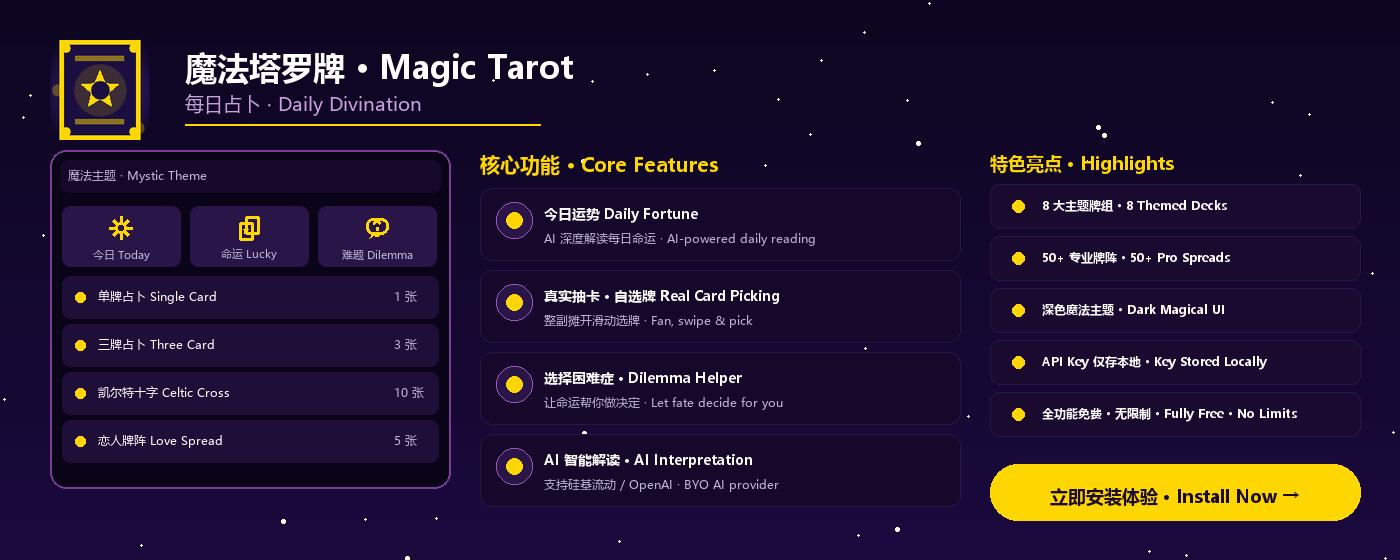
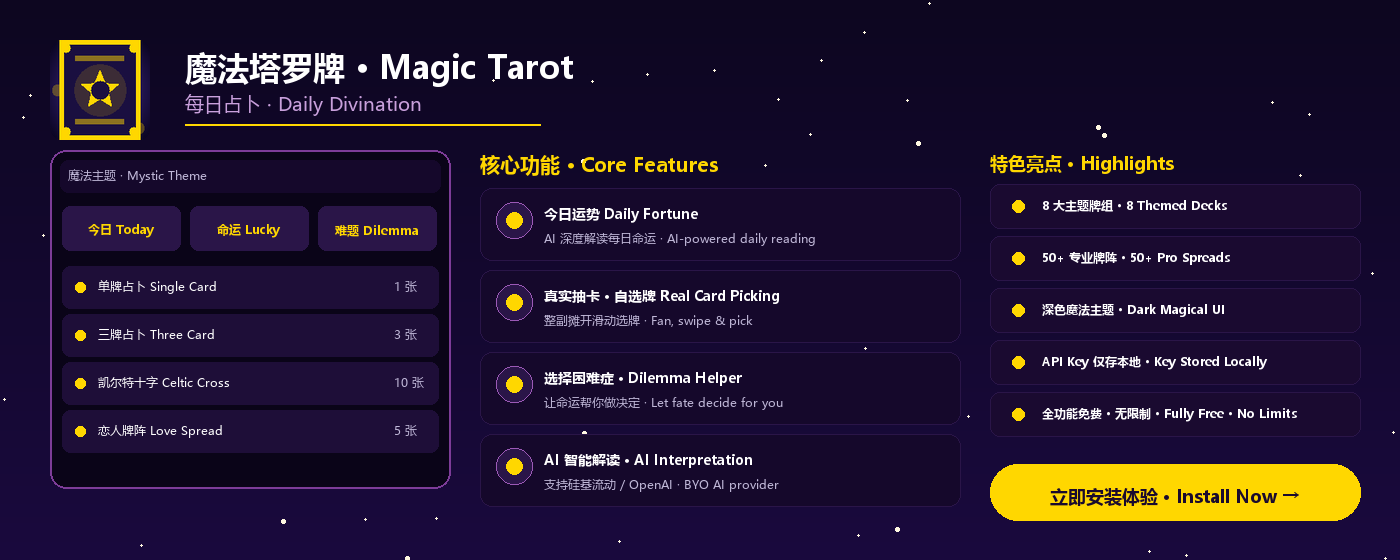
promo 工具卡去图标改为纯文字居中卡片
按用户反馈移除意向不明的太阳/塔罗牌/气泡手绘图标，工具卡改为金色文字居中的纯文字卡片（高 44px），下方牌阵列表同步上移；删除无引用的图标绘制函数，重生成两张 promo。

Changed region(s): [[0.0307, 0.3946, 0.3379, 0.85]]

diff --git a/scripts/generate-store-promo.py b/scripts/generate-store-promo.py
@@ -122,55 +122,6 @@ def _shade(hex_color, factor):
 #  ICON DRAWING FUNCTIONS
 # ════════════════════════════════════════
 
-def _draw_star(draw, cx, cy, outer_r, fill_color, points=5):
-    inner_r = outer_r * 0.4
-    pts = []
-    for i in range(points * 2):
-        angle = math.pi / 2 + i * math.pi / points
-        r = outer_r if i % 2 == 0 else inner_r
-        px = cx + r * math.cos(angle)
-        py = cy - r * math.sin(angle)
-        pts.append((px, py))
-    draw.polygon(pts, fill=fill_color)
-
-def _draw_sun(draw, cx, cy, diameter, fill_color):
-    """Unified line-style sun: ring + 8 equal rays. diameter = visual box size."""
-    r = diameter / 2.0
-    cr = r * 0.46           # core radius
-    lr = r * 0.92           # ray outer reach
-    lw = max(2, int(diameter * 0.14))
-    draw.ellipse([cx - cr, cy - cr, cx + cr, cy + cr], outline=fill_color, width=lw)
-    for i in range(8):
-        angle = i * math.pi / 4
-        x1 = cx + cr * 1.15 * math.cos(angle)
-        y1 = cy - cr * 1.15 * math.sin(angle)
-        x2 = cx + lr * math.cos(angle)
-        y2 = cy - lr * math.sin(angle)
-        draw.line([(x1, y1), (x2, y2)], fill=fill_color, width=lw)
-
-def _draw_think_bubble(draw, cx, cy, diameter, fill_color):
-    """Unified line-style speech bubble + question mark. diameter = visual box size."""
-    r = diameter / 2.0
-    lw = max(2, int(diameter * 0.13))
-    bw, bh = diameter * 0.88, diameter * 0.68
-    bx, by = cx - bw / 2, cy - bh / 2 - diameter * 0.08
-    # rounded-rect bubble (outline only)
-    draw.rounded_rectangle([bx, by, bx + bw, by + bh], radius=bh * 0.45,
-                           outline=fill_color, width=lw)
-    # tail
-    tw = diameter * 0.16
-    tx = cx - tw
-    draw.polygon([(tx, by + bh - 1),
-                  (tx - tw, by + bh + diameter * 0.18),
-                  (tx + tw, by + bh - 1)], fill=fill_color)
-    # question mark (centered in bubble)
-    qy = by + bh * 0.5
-    draw.arc([cx - bw * 0.2, qy - bh * 0.32, cx + bw * 0.2, qy + bh * 0.32],
-             200, 340, fill=fill_color, width=lw)
-    draw.line([(cx, qy + bh * 0.10), (cx, qy + bh * 0.30)], fill=fill_color, width=lw)
-    draw.ellipse([cx - lw * 0.7, qy + bh * 0.40, cx + lw * 0.7, qy + bh * 0.40 + lw * 1.4],
-                 fill=fill_color)
-
 def _draw_sparkle(draw, cx, cy, size, fill_color):
     pts = []
     for i in range(8):
@@ -209,24 +160,6 @@ def _draw_gamepad(draw, cx, cy, size, fill_color):
     for dx, dy in [(br, 0), (-br, 0), (0, br), (0, -br)]:
         draw.ellipse([cx + half // 3 + dx - br, cy + dy - br,
                       cx + half // 3 + dx + br, cy + dy + br], fill="#1a0a2e")
-
-def _draw_cards_icon(draw, cx, cy, diameter, fill_color):
-    """Unified line-style stacked tarot cards with a small star. diameter = visual box size."""
-    lw = max(2, int(diameter * 0.13))
-    card_w = diameter * 0.56
-    card_h = diameter * 0.78
-    # back card (offset up-right)
-    ox, oy = diameter * 0.12, -diameter * 0.12
-    draw.rounded_rectangle([cx - card_w / 2 + ox, cy - card_h / 2 + oy,
-                            cx + card_w / 2 + ox, cy + card_h / 2 + oy],
-                           radius=card_w * 0.14, outline=fill_color, width=lw)
-    # front card (offset down-left)
-    fx, fy = -diameter * 0.12, diameter * 0.12
-    draw.rounded_rectangle([cx - card_w / 2 + fx, cy - card_h / 2 + fy,
-                            cx + card_w / 2 + fx, cy + card_h / 2 + fy],
-                           radius=card_w * 0.14, outline=fill_color, width=lw)
-    # small star on front card
-    _draw_star(draw, cx + fx, cy + fy, card_w * 0.22, fill_color, points=5)
 
 def _draw_checkmark_circle(draw, cx, cy, size, fill_color):
     r = size // 2
@@ -334,25 +267,19 @@ def large_promo():
             radius=8, fill="#15082b")
     text_left(draw, (mock_x + 18, mock_y + 17), "魔法主题 · Mystic Theme", font_zh(12), fill=TEXT_SUB)
 
-    # Tool cards - 每个专属图标 + 统一视觉尺寸（~22px）
+    # Tool cards - 纯文字居中卡片（无图标）
     tc_y = mock_y + 56
     tc_w = (mock_w - 30) // 3
-    mock_tools = [
-        ("sun", "今日 Today"),
-        ("cards", "命运 Lucky"),
-        ("think", "难题 Dilemma"),
-    ]
-    MT = {"sun": _draw_sun, "cards": _draw_cards_icon, "think": _draw_think_bubble}
-    # 视觉统一：三个图标都传 diameter（视觉盒尺寸），统一为 24px
-    MOCK_ICON_SZ = {"sun": 24, "cards": 24, "think": 24}
-    for ti, (ic, lbl) in enumerate(mock_tools):
+    mock_tools = ["今日 Today", "命运 Lucky", "难题 Dilemma"]
+    tc_h = 44
+    for ti, lbl in enumerate(mock_tools):
         tx = mock_x + 12 + ti * (tc_w + 5)
-        draw_rr(draw, (tx, tc_y, tx + tc_w - 5, tc_y + 60), radius=8, fill=CARD_BG)
-        MT[ic](draw, tx + (tc_w - 5) // 2, tc_y + 22, MOCK_ICON_SZ[ic], ACCENT_GOLD)
-        text_center(draw, (tx + (tc_w - 5) // 2, tc_y + 46), lbl, font_zh(11), fill=TEXT_SUB)
+        draw_rr(draw, (tx, tc_y, tx + tc_w - 5, tc_y + tc_h), radius=8, fill=CARD_BG)
+        text_center(draw, (tx + (tc_w - 5) // 2, tc_y + tc_h // 2), lbl,
+                    font_zh(12, True), fill=ACCENT_GOLD)
 
     # Spread list
-    sl_y = tc_y + 70
+    sl_y = tc_y + tc_h + 16
     SL = {"sparkle": _draw_sparkle, "hourglass": _draw_hourglass,
           "gamepad": _draw_gamepad, "heart": _draw_heart}
     mock_spreads = [
